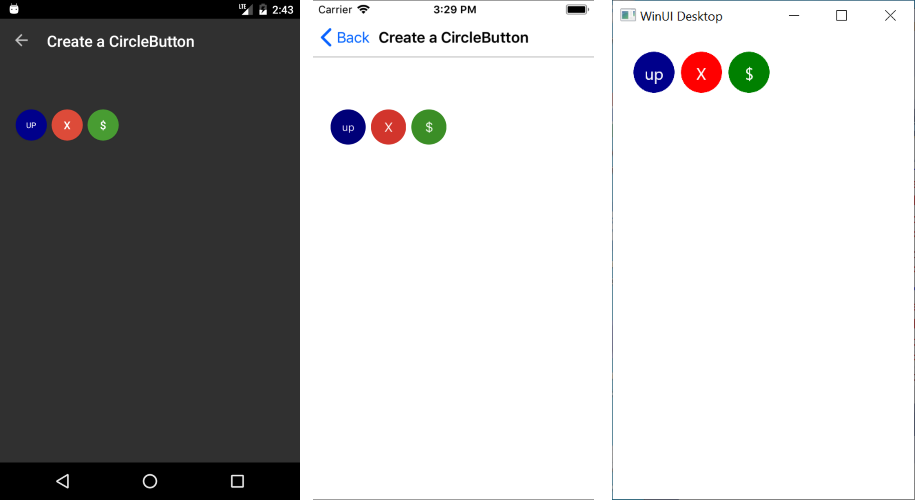
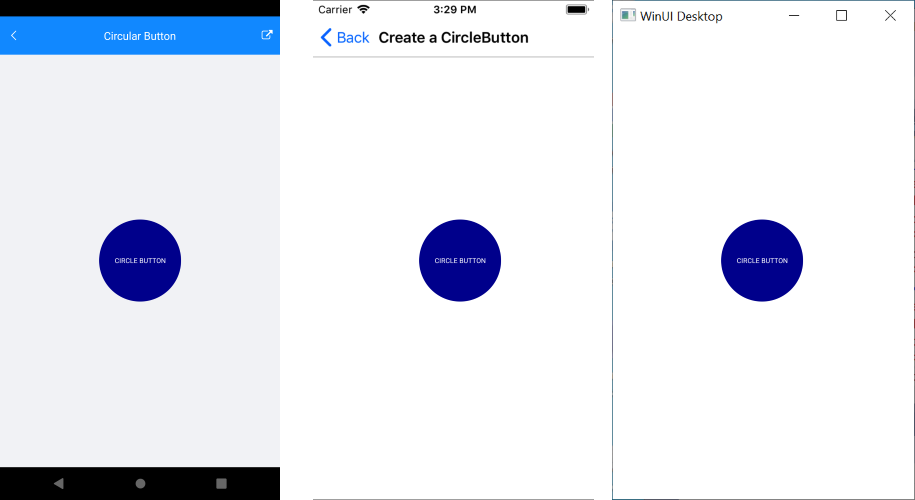
Update button images and snippets for circle button.

diff --git a/controls/button/howto/button-howto-create-circle-button.md b/controls/button/howto/button-howto-create-circle-button.md
@@ -20,9 +20,23 @@ You could easily create circular buttons with RadButton by adjusting its Width, 
 
 Here is a quick example:
 
-<snippet id='button-circular-xaml'/>
+```XAML
+<telerikInput:RadButton WidthRequest="120" 
+					    HeightRequest="120"                                
+					    Text="Circle Button" 
+					    FontSize="Micro" 
+					    TextColor="White" 
+					    BackgroundColor="DarkBlue" 
+					    CornerRadius="60"  />
+```
 
-Appearance of different circular buttons:
+Add the namespace: 
+
+```XAML
+xmlns:telerikInput="clr-namespace:Telerik.XamarinForms.Input;assembly=Telerik.Maui.Compatibility"
+```
+
+How it looks:
 
 ![Button Key Features Example](../images/button-howto-circlebutton.png)
 

diff --git a/troubleshooting/nuget-error-maui-check-tool.md b/troubleshooting/nuget-error-maui-check-tool.md
@@ -1,7 +1,8 @@
 ---
 title: Nuget Maui Check Tool Error
-page_title: TMaui Check Tool Remote Source Error
+page_title: Maui Check Tool Remote Source Error
 description: Failed to retrieve information about redth.net.maui.check from remote source
+tags: .net maui, maui, maui check, error, failed
 slug: nuget-error-maui-check-tool
 ---
 
